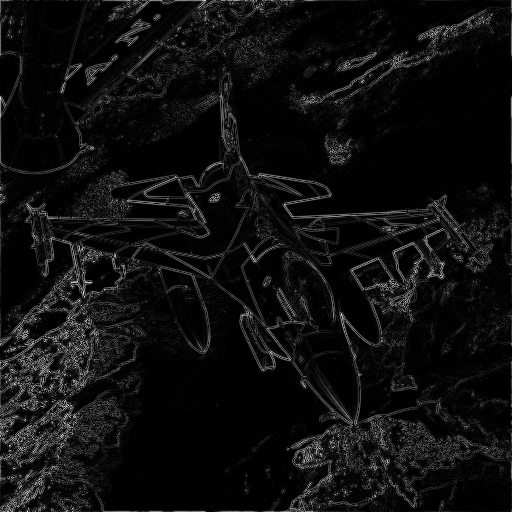
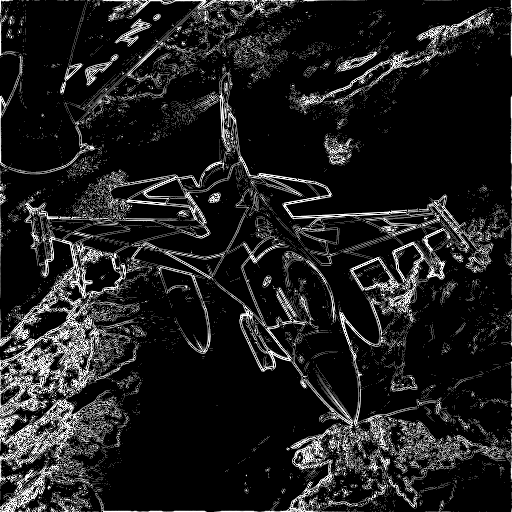
hi

diff --git a/visualize.c b/visualize.c
@@ -87,7 +87,7 @@ int main() {
 
     /* FFT spectrum: top 2% clipped — DC spike would otherwise dominate */
     normalize_percentile(fft_mag,  fft_px,  n, 0.02f);
-    /* Edge output: top 5% clipped — makes edges bright, suppresses noise */
+    /* Edge output: top 2% clipped — makes edges bright, suppresses noise */
     normalize_percentile(edge_mag, edge_px, n, 0.02f);
 
     stbi_write_png("fft_output.png",   width, height, 1, fft_px,  width);